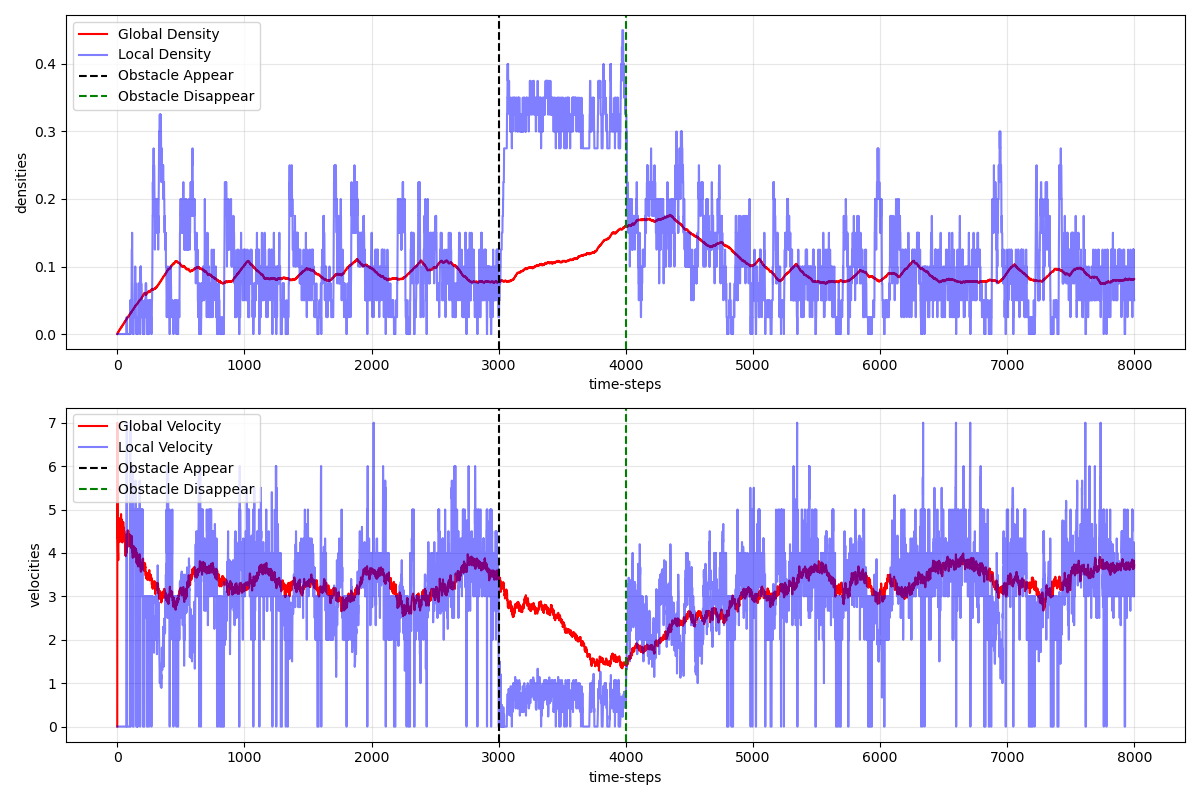
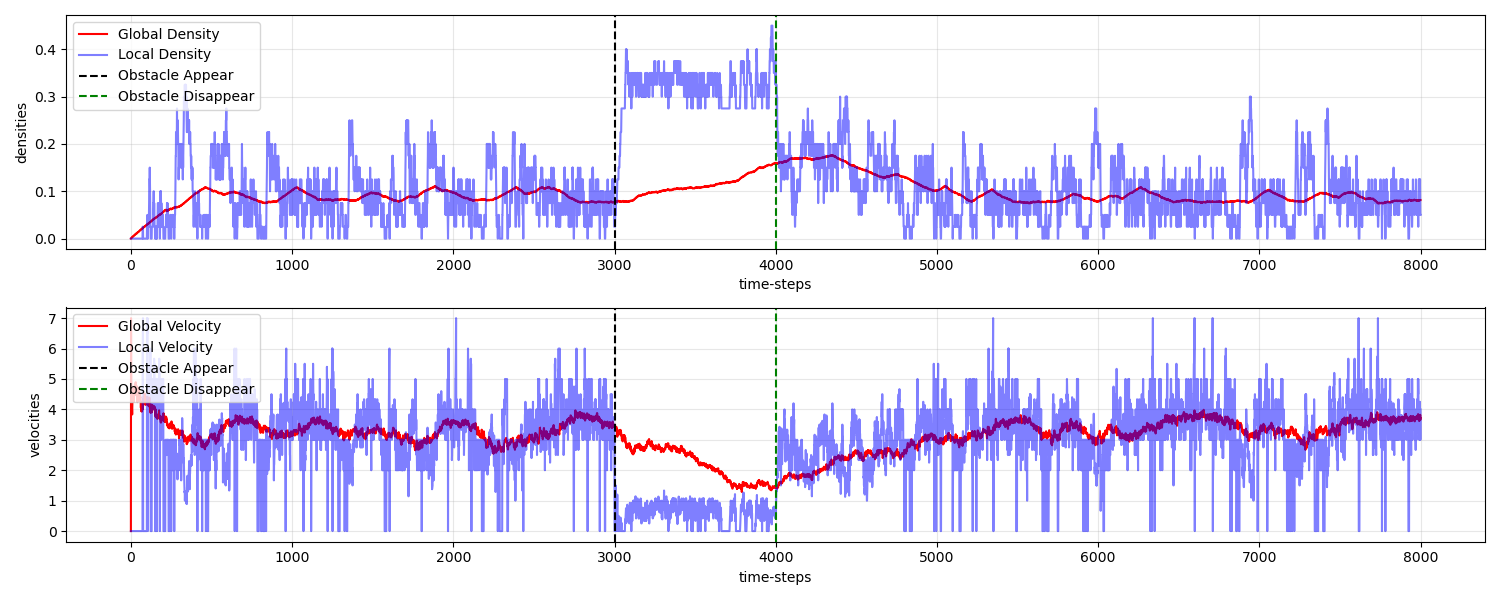
3/10 17:21

Changed region(s): [[0.0, 0.0, 1.0, 0.99], [0.9867, 0.03, 1.0, 0.42], [0.0308, 0.3, 0.0617, 0.36]]

diff --git a/obstacle_impact.py b/obstacle_impact.py
@@ -481,7 +481,7 @@ def simulate_traffic_stability_with_obstacle(length, t0, steps, target_density,
 # generate the plot
 def plot_obstacle_impact(results):
     time_steps = range(len(results['global_densities']))
-    fig, axs = plt.subplots(2, 1, figsize=(12, 8))
+    fig, axs = plt.subplots(2, 1, figsize=(15, 6))
 
     # density
     axs[0].plot(time_steps, results['global_densities'], 'r-', label='Global Density')
